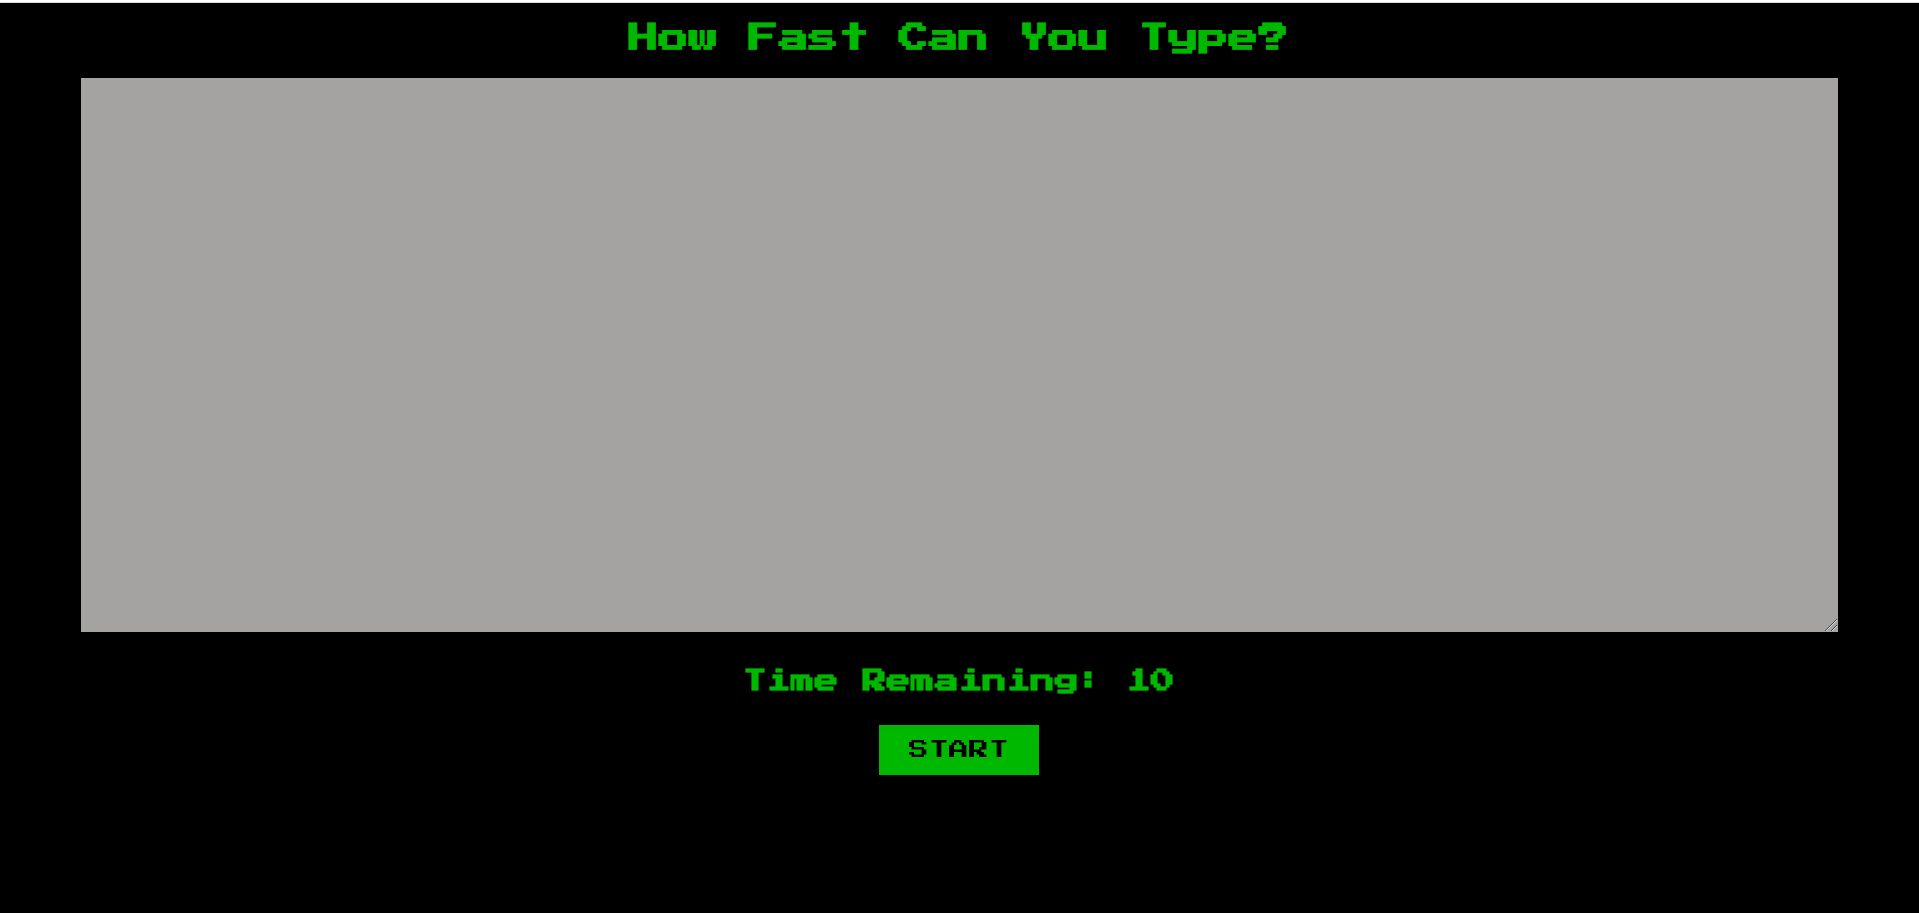
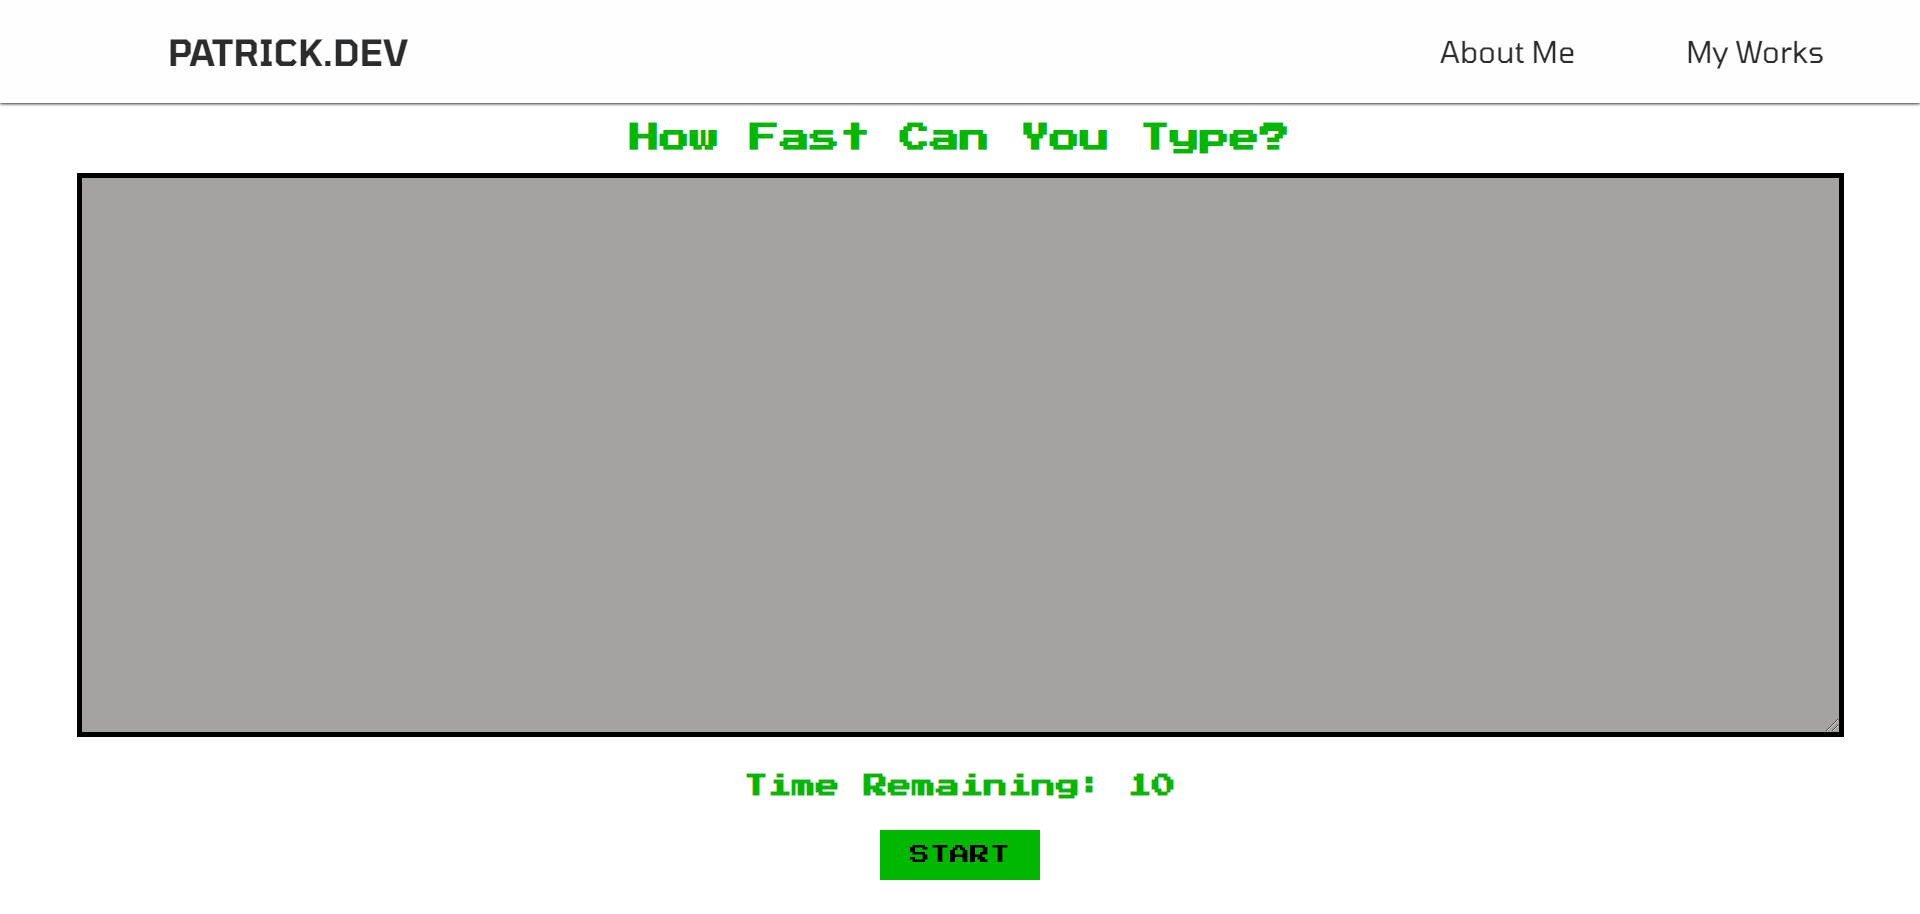
changed work images

diff --git a/build/static/js/main.702497d2.chunk.js b/build/static/js/main.702497d2.chunk.js
@@ -1,0 +1,2 @@
+(this["webpackJsonpmy-portfolio"]=this["webpackJsonpmy-portfolio"]||[]).push([[0],{11:function(e,t,a){},19:function(e,t,a){e.exports=a.p+"static/media/Capture.fa90f8c6.PNG"},20:function(e,t,a){e.exports=a.p+"static/media/pic-art.a06f3bd0.PNG"},23:function(e,t,a){e.exports=a(36)},28:function(e,t,a){},34:function(e,t,a){},35:function(e,t,a){},36:function(e,t,a){"use strict";a.r(t);var n=a(0),r=a.n(n),c=a(16),l=a.n(c),i=(a(28),a(11),a(3));var o=function(){return r.a.createElement("header",null,r.a.createElement("div",{className:"logo-container"},r.a.createElement(i.b,{to:"/",className:"logo-link"},r.a.createElement("h2",null,"PATRICK.DEV"))),r.a.createElement("nav",null,r.a.createElement("ul",{className:"nav-links"},r.a.createElement("li",null,r.a.createElement(i.b,{to:"/",className:"nav-link"},"About Me")),r.a.createElement("li",null,r.a.createElement(i.b,{to:"/MyWorks",className:"nav-link"},"My Works")))))},m=a(7);var s=function(){return r.a.createElement("section",{className:"presentation"},r.a.createElement("div",{className:"introduction"},r.a.createElement("div",{className:"intro-text"},r.a.createElement("h1",{className:"hello"},"HELLO,"),r.a.createElement("h1",{className:"name"},"I'M PATRICK BORJE"))),r.a.createElement("div",{class:"about"},r.a.createElement("h2",null,"About Me"),r.a.createElement("p",null,"I graduated from Phinma University of Pangasinan with a critical experience in learning technology. I can implement effective and user friendly websites which enables me to help and satisfy clients. Striving to leverage my web development skills especially front end development.")))},u=a(19),E=a.n(u),d=a(20),f=a.n(d);var v=function(){return r.a.createElement("section",{className:"works_section"},r.a.createElement("div",{className:"title"},r.a.createElement("h1",null,"My Works")),r.a.createElement("div",{className:"works"},r.a.createElement("div",{className:"card"},r.a.createElement(i.b,{className:"logo-link",to:"/TypeGame"},r.a.createElement("img",{src:E.a,alt:"typeGame"}),r.a.createElement("div",null,r.a.createElement("h4",null,"HOW FAST CAN YOU TYPE?")))),r.a.createElement("div",{className:"card"},r.a.createElement(i.b,{className:"logo-link",to:"/Photos"},r.a.createElement("img",{src:f.a,alt:"typeGame"}),r.a.createElement("div",null,r.a.createElement("h4",null,"PIC ART"))))))};var h=function(){return r.a.createElement("main",null,r.a.createElement(s,null),r.a.createElement(v,null))},b=(a(34),a(2));var p=function(){var e=arguments.length>0&&void 0!==arguments[0]?arguments[0]:20,t=Object(n.useState)(""),a=Object(b.a)(t,2),r=a[0],c=a[1],l=Object(n.useState)(e),i=Object(b.a)(l,2),o=i[0],m=i[1],s=Object(n.useState)(!1),u=Object(b.a)(s,2),E=u[0],d=u[1],f=Object(n.useState)(0),v=Object(b.a)(f,2),h=v[0],p=v[1],g=Object(n.useRef)(null);function N(e){var t=e.target.value;c(t)}function O(e){return e.trim().split(" ").filter((function(e){return""!==e})).length}function y(){d(!0),m(e),p(0),c(""),g.current.disabled=!1,g.current.focus()}function C(){d(!1),p(O(r))}return Object(n.useEffect)((function(){o>0&&E?setTimeout((function(){m((function(e){return e-1}))}),1e3):0===o&&C()}),[o,E]),{changeVal:N,text:r,timeRemaining:o,startGame:y,wordCount:h,isTrue:E,textBoxRef:g}};var g=function(){var e=p(10),t=e.changeVal,a=e.text,n=e.timeRemaining,c=e.startGame,l=e.wordCount,i=e.isTrue,o=e.textBoxRef;return r.a.createElement("div",null,r.a.createElement("h1",{className:"typegame_text"},"How Fast Can You Type?"),r.a.createElement("textarea",{onChange:t,value:a,disabled:!i,ref:o}),r.a.createElement("h4",{className:"typegame_text"},"Time Remaining: ",n),l>0?r.a.createElement("button",{className:"btn-start",onClick:c,disabled:i},"Play Again"):r.a.createElement("button",{className:"btn-start",onClick:c,disabled:i},"Start"),l?r.a.createElement("h4",{className:"typegame_text"},"Word Count: ",l):null)},N=a(21),O=a(22),y=r.a.createContext();var C=function(){var e=Object(n.useState)(!1),t=Object(b.a)(e,2),a=t[0],r=t[1],c=Object(n.useRef)(null);function l(){r(!0)}function i(){r(!1)}return Object(n.useEffect)((function(){return c.current.addEventListener("mouseenter",l),c.current.addEventListener("mouseleave",i),function(){c.current.removeEventListener("mouseenter",l),c.current.removeEventListener("mouseleave",i)}}),[]),[a,c]};var j=function(e){var t=e.className,a=e.img,c=C(),l=Object(b.a)(c,2),i=l[0],o=l[1],m=Object(n.useContext)(y),s=m.toggleFavorite,u=m.addToCart,E=m.cartItems,d=m.removeFromCart;return r.a.createElement("div",{className:"".concat(t," image-container"),ref:o},r.a.createElement("img",{src:a.url,className:"image-grid"}),a.isFavorite?r.a.createElement("i",{className:"ri-heart-fill favorite",onClick:function(){return s(a.id)}}):i?r.a.createElement("i",{className:"ri-heart-line favorite",onClick:function(){return s(a.id)}}):void 0,E.some((function(e){return e.id===a.id}))?r.a.createElement("i",{className:"ri-shopping-cart-fill cart",onClick:function(){return d(a.id)}}):i?r.a.createElement("i",{className:"ri-add-circle-line cart",onClick:function(){return u(a)}}):void 0)};function k(e){return e%5===0?"big":e%6===0?"wide":void 0}a(35);var x=function(){var e=Object(n.useContext)(y),t=e.allPhotos,a=e.cartItems,c=t.map((function(e,t){return r.a.createElement(j,{key:e.id,img:e,className:k(t)})})),l=a.length>0?"ri-shopping-cart-fill":"ri-shopping-cart-line";return r.a.createElement("div",null,r.a.createElement("div",{className:"photo-header"},r.a.createElement("h1",{className:"photo-title"},"Gallery"),r.a.createElement(i.b,{className:"logo-link",to:"/Cart"},r.a.createElement("div",{className:"btn-cart"},r.a.createElement("h1",null,"Cart"),r.a.createElement("i",{className:"".concat(l," ri-fw ri-2x")})))),r.a.createElement("main",{className:"photos"},c))};var w=function(e){var t=e.item,a=C(),c=Object(b.a)(a,2),l=c[0],i=c[1],o=Object(n.useContext)(y).removeFromCart,m=l?"ri-delete-bin-fill":"ri-delete-bin-line";return r.a.createElement("div",{className:"cart-item"},r.a.createElement("i",{className:m,onClick:function(){return o(t.id)},ref:i}),r.a.createElement("img",{src:t.url,width:"130px"}),r.a.createElement("p",null,"$5.99"))};var P=function(){var e=Object(n.useState)("Place Order"),t=Object(b.a)(e,2),a=t[0],c=t[1],l=Object(n.useContext)(y),o=l.cartItems,m=l.emptyCart,s=(5.99*o.length).toLocaleString("en-US",{style:"currency",currency:"USD"}),u=o.map((function(e){return r.a.createElement(w,{key:e.id,item:e})}));return r.a.createElement("main",{className:"cart-page"},r.a.createElement("div",{className:"photo-header"},r.a.createElement(i.b,{className:"logo-link",to:"/Photos"},r.a.createElement("div",{className:"btn-cart"},r.a.createElement("h1",null,"Back To Gallery")))),r.a.createElement("h1",null,"Check out"),u,r.a.createElement("p",{className:"total-cost"},"Total: ",s),o.length>0?r.a.createElement("div",{className:"order-button"},r.a.createElement("button",{className:"btn-order",onClick:function(){c("Ordering..."),setTimeout((function(){console.log("Order placed!"),c("Place Order"),m(),alert("order has been successfully placed")}),3e3)}},a)):r.a.createElement("p",null,"You have no items in your cart."))};var T=function(){return r.a.createElement("div",null,r.a.createElement(o,null),r.a.createElement(m.c,null,r.a.createElement(m.a,{exact:!0,path:"/"},r.a.createElement(h,null)),r.a.createElement(m.a,{path:"/TypeGame"},r.a.createElement(g,null)),r.a.createElement(m.a,{path:"/Photos"},r.a.createElement(x,null)),r.a.createElement(m.a,{path:"/Cart"},r.a.createElement(P,null)),r.a.createElement(m.a,{path:"/MyWorks"},r.a.createElement(v,null))))};Boolean("localhost"===window.location.hostname||"[::1]"===window.location.hostname||window.location.hostname.match(/^127(?:\.(?:25[0-5]|2[0-4][0-9]|[01]?[0-9][0-9]?)){3}$/));l.a.render(r.a.createElement((function(e){var t=e.children,a=Object(n.useState)([]),c=Object(b.a)(a,2),l=c[0],i=c[1],o=Object(n.useState)([]),m=Object(b.a)(o,2),s=m[0],u=m[1];return Object(n.useEffect)((function(){fetch("https://raw.githubusercontent.com/bobziroll/scrimba-react-bootcamp-images/master/images.json").then((function(e){return e.json()})).then((function(e){return i(e)}))}),[]),r.a.createElement(y.Provider,{value:{allPhotos:l,toggleFavorite:function(e){var t=l.map((function(t){return t.id===e?Object(O.a)({},t,{isFavorite:!t.isFavorite}):t}));i(t)},cartItems:s,addToCart:function(e){u((function(t){return[].concat(Object(N.a)(t),[e])}))},removeFromCart:function(e){u((function(t){return t.filter((function(t){return t.id!==e}))}))},emptyCart:function(){u([])}}},t)}),null,r.a.createElement(i.a,null,r.a.createElement(T,null))),document.getElementById("root")),"serviceWorker"in navigator&&navigator.serviceWorker.ready.then((function(e){e.unregister()})).catch((function(e){console.error(e.message)}))}},[[23,1,2]]]);
+//# sourceMappingURL=main.702497d2.chunk.js.map

diff --git a/build/index.html b/build/index.html
@@ -1,1 +1,1 @@
-<!doctype html><html lang="en"><head><meta charset="utf-8"/><link rel="icon" href="/portfolio/favicon.ico"/><meta name="viewport" content="width=device-width,initial-scale=1"/><meta name="theme-color" content="#000000"/><meta name="description" content="Web site created using create-react-app"/><link href="https://fonts.googleapis.com/css?family=Tomorrow:400,600&display=swap" rel="stylesheet"/><link href="https://fonts.googleapis.com/css?family=Press+Start+2P&display=swap" rel="stylesheet"/><link rel="apple-touch-icon" href="/portfolio/logo192.png"/><link rel="manifest" href="/portfolio/manifest.json"/><link href="https://cdn.jsdelivr.net/npm/remixicon@2.3.0/fonts/remixicon.css" rel="stylesheet"/><title>Patrick Borje</title><link href="/portfolio/static/css/main.c4883240.chunk.css" rel="stylesheet"></head><body><noscript>You need to enable JavaScript to run this app.</noscript><div id="root"></div><script>!function(e){function r(r){for(var n,l,f=r[0],i=r[1],p=r[2],c=0,s=[];c<f.length;c++)l=f[c],Object.prototype.hasOwnProperty.call(o,l)&&o[l]&&s.push(o[l][0]),o[l]=0;for(n in i)Object.prototype.hasOwnProperty.call(i,n)&&(e[n]=i[n]);for(a&&a(r);s.length;)s.shift()();return u.push.apply(u,p||[]),t()}function t(){for(var e,r=0;r<u.length;r++){for(var t=u[r],n=!0,f=1;f<t.length;f++){var i=t[f];0!==o[i]&&(n=!1)}n&&(u.splice(r--,1),e=l(l.s=t[0]))}return e}var n={},o={1:0},u=[];function l(r){if(n[r])return n[r].exports;var t=n[r]={i:r,l:!1,exports:{}};return e[r].call(t.exports,t,t.exports,l),t.l=!0,t.exports}l.m=e,l.c=n,l.d=function(e,r,t){l.o(e,r)||Object.defineProperty(e,r,{enumerable:!0,get:t})},l.r=function(e){"undefined"!=typeof Symbol&&Symbol.toStringTag&&Object.defineProperty(e,Symbol.toStringTag,{value:"Module"}),Object.defineProperty(e,"__esModule",{value:!0})},l.t=function(e,r){if(1&r&&(e=l(e)),8&r)return e;if(4&r&&"object"==typeof e&&e&&e.__esModule)return e;var t=Object.create(null);if(l.r(t),Object.defineProperty(t,"default",{enumerable:!0,value:e}),2&r&&"string"!=typeof e)for(var n in e)l.d(t,n,function(r){return e[r]}.bind(null,n));return t},l.n=function(e){var r=e&&e.__esModule?function(){return e.default}:function(){return e};return l.d(r,"a",r),r},l.o=function(e,r){return Object.prototype.hasOwnProperty.call(e,r)},l.p="/portfolio/";var f=this["webpackJsonpmy-portfolio"]=this["webpackJsonpmy-portfolio"]||[],i=f.push.bind(f);f.push=r,f=f.slice();for(var p=0;p<f.length;p++)r(f[p]);var a=i;t()}([])</script><script src="/portfolio/static/js/2.e83d53f4.chunk.js"></script><script src="/portfolio/static/js/main.91a84250.chunk.js"></script></body></html>
+<!doctype html><html lang="en"><head><meta charset="utf-8"/><link rel="icon" href="/portfolio/favicon.ico"/><meta name="viewport" content="width=device-width,initial-scale=1"/><meta name="theme-color" content="#000000"/><meta name="description" content="Web site created using create-react-app"/><link href="https://fonts.googleapis.com/css?family=Tomorrow:400,600&display=swap" rel="stylesheet"/><link href="https://fonts.googleapis.com/css?family=Press+Start+2P&display=swap" rel="stylesheet"/><link rel="apple-touch-icon" href="/portfolio/logo192.png"/><link rel="manifest" href="/portfolio/manifest.json"/><link href="https://cdn.jsdelivr.net/npm/remixicon@2.3.0/fonts/remixicon.css" rel="stylesheet"/><title>Patrick Borje</title><link href="/portfolio/static/css/main.c4883240.chunk.css" rel="stylesheet"></head><body><noscript>You need to enable JavaScript to run this app.</noscript><div id="root"></div><script>!function(e){function r(r){for(var n,l,f=r[0],i=r[1],p=r[2],c=0,s=[];c<f.length;c++)l=f[c],Object.prototype.hasOwnProperty.call(o,l)&&o[l]&&s.push(o[l][0]),o[l]=0;for(n in i)Object.prototype.hasOwnProperty.call(i,n)&&(e[n]=i[n]);for(a&&a(r);s.length;)s.shift()();return u.push.apply(u,p||[]),t()}function t(){for(var e,r=0;r<u.length;r++){for(var t=u[r],n=!0,f=1;f<t.length;f++){var i=t[f];0!==o[i]&&(n=!1)}n&&(u.splice(r--,1),e=l(l.s=t[0]))}return e}var n={},o={1:0},u=[];function l(r){if(n[r])return n[r].exports;var t=n[r]={i:r,l:!1,exports:{}};return e[r].call(t.exports,t,t.exports,l),t.l=!0,t.exports}l.m=e,l.c=n,l.d=function(e,r,t){l.o(e,r)||Object.defineProperty(e,r,{enumerable:!0,get:t})},l.r=function(e){"undefined"!=typeof Symbol&&Symbol.toStringTag&&Object.defineProperty(e,Symbol.toStringTag,{value:"Module"}),Object.defineProperty(e,"__esModule",{value:!0})},l.t=function(e,r){if(1&r&&(e=l(e)),8&r)return e;if(4&r&&"object"==typeof e&&e&&e.__esModule)return e;var t=Object.create(null);if(l.r(t),Object.defineProperty(t,"default",{enumerable:!0,value:e}),2&r&&"string"!=typeof e)for(var n in e)l.d(t,n,function(r){return e[r]}.bind(null,n));return t},l.n=function(e){var r=e&&e.__esModule?function(){return e.default}:function(){return e};return l.d(r,"a",r),r},l.o=function(e,r){return Object.prototype.hasOwnProperty.call(e,r)},l.p="/portfolio/";var f=this["webpackJsonpmy-portfolio"]=this["webpackJsonpmy-portfolio"]||[],i=f.push.bind(f);f.push=r,f=f.slice();for(var p=0;p<f.length;p++)r(f[p]);var a=i;t()}([])</script><script src="/portfolio/static/js/2.e83d53f4.chunk.js"></script><script src="/portfolio/static/js/main.702497d2.chunk.js"></script></body></html>

diff --git a/build/precache-manifest.7f1ebaca138ad062f2e8213e4138dffe.js b/build/precache-manifest.7f1ebaca138ad062f2e8213e4138dffe.js
@@ -1,10 +1,10 @@
 self.__precacheManifest = (self.__precacheManifest || []).concat([
   {
-    "revision": "5573151f75ebd0e1db0d9179af04f8f0",
+    "revision": "8ef1c28f009f991169ecdcbc035645c1",
     "url": "/portfolio/index.html"
   },
   {
-    "revision": "9defc2b02d715bbb4695",
+    "revision": "7323f2844c03de877755",
     "url": "/portfolio/static/css/main.c4883240.chunk.css"
   },
   {
@@ -16,8 +16,8 @@ self.__precacheManifest = (self.__precacheManifest || []).concat([
     "url": "/portfolio/static/js/2.e83d53f4.chunk.js.LICENSE.txt"
   },
   {
-    "revision": "9defc2b02d715bbb4695",
-    "url": "/portfolio/static/js/main.91a84250.chunk.js"
+    "revision": "7323f2844c03de877755",
+    "url": "/portfolio/static/js/main.702497d2.chunk.js"
   },
   {
     "revision": "d89ad7dd13ac8d86cc0e",

diff --git a/build/service-worker.js b/build/service-worker.js
@@ -14,7 +14,7 @@
 importScripts("https://storage.googleapis.com/workbox-cdn/releases/4.3.1/workbox-sw.js");
 
 importScripts(
-  "/portfolio/precache-manifest.7e43a0f61e4686a476e1eaaf80ab9bd8.js"
+  "/portfolio/precache-manifest.7f1ebaca138ad062f2e8213e4138dffe.js"
 );
 
 self.addEventListener('message', (event) => {
